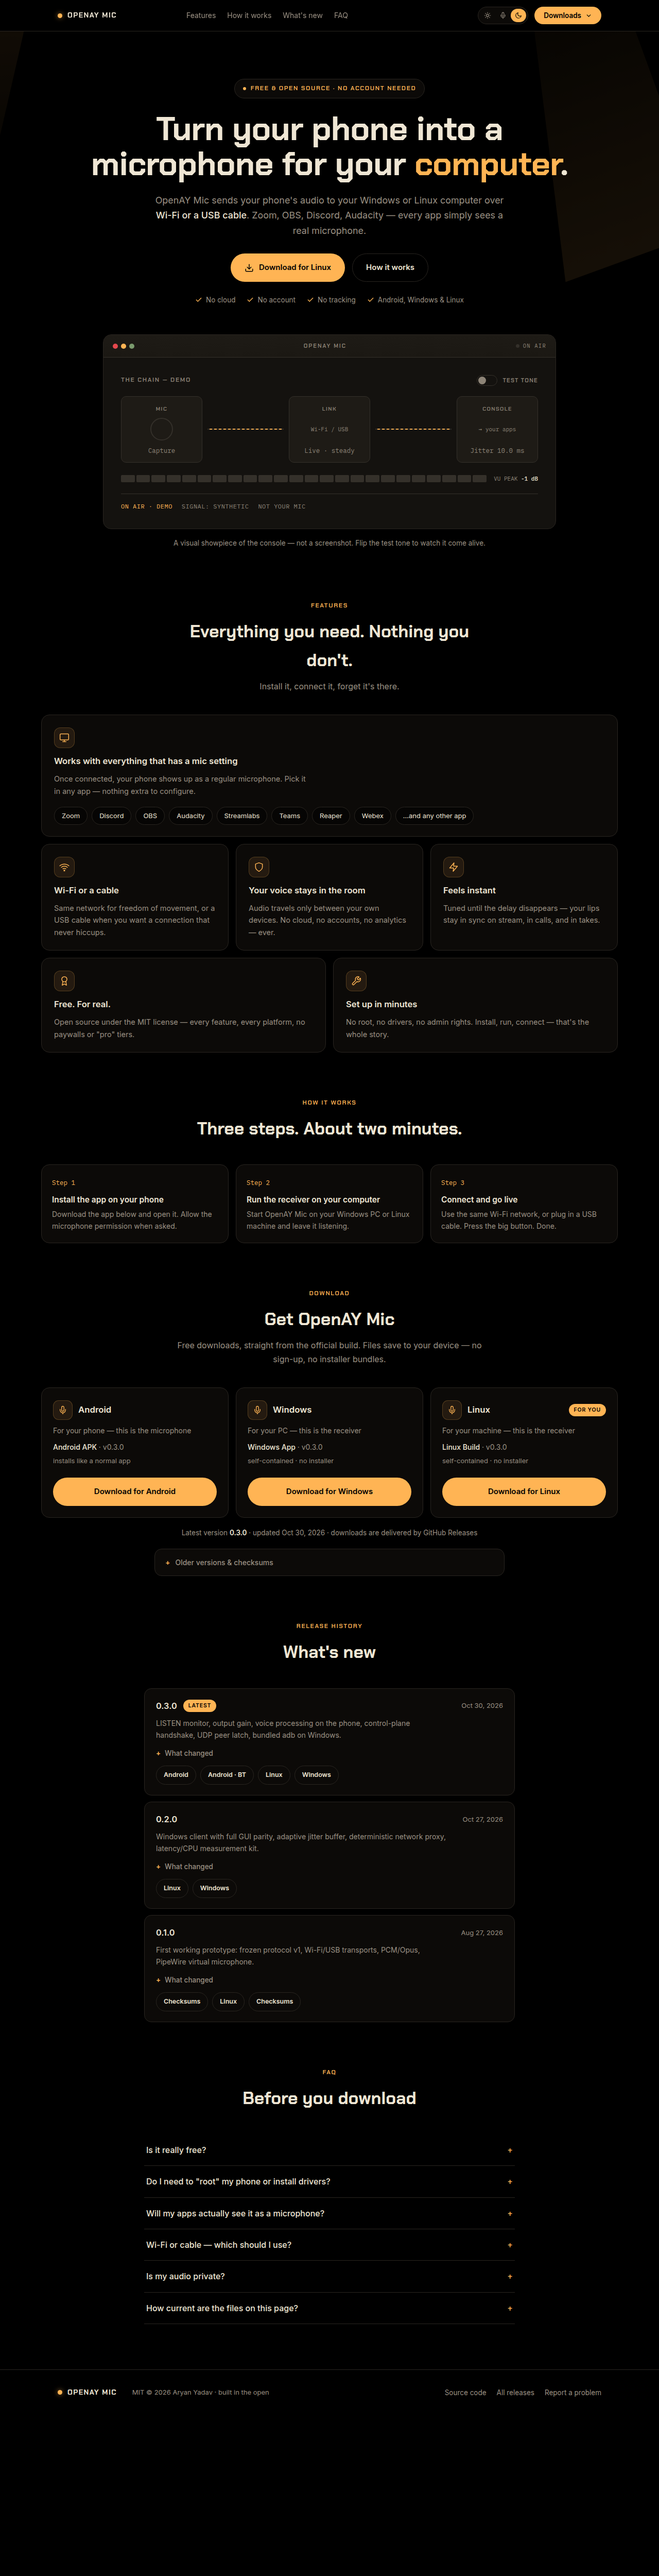
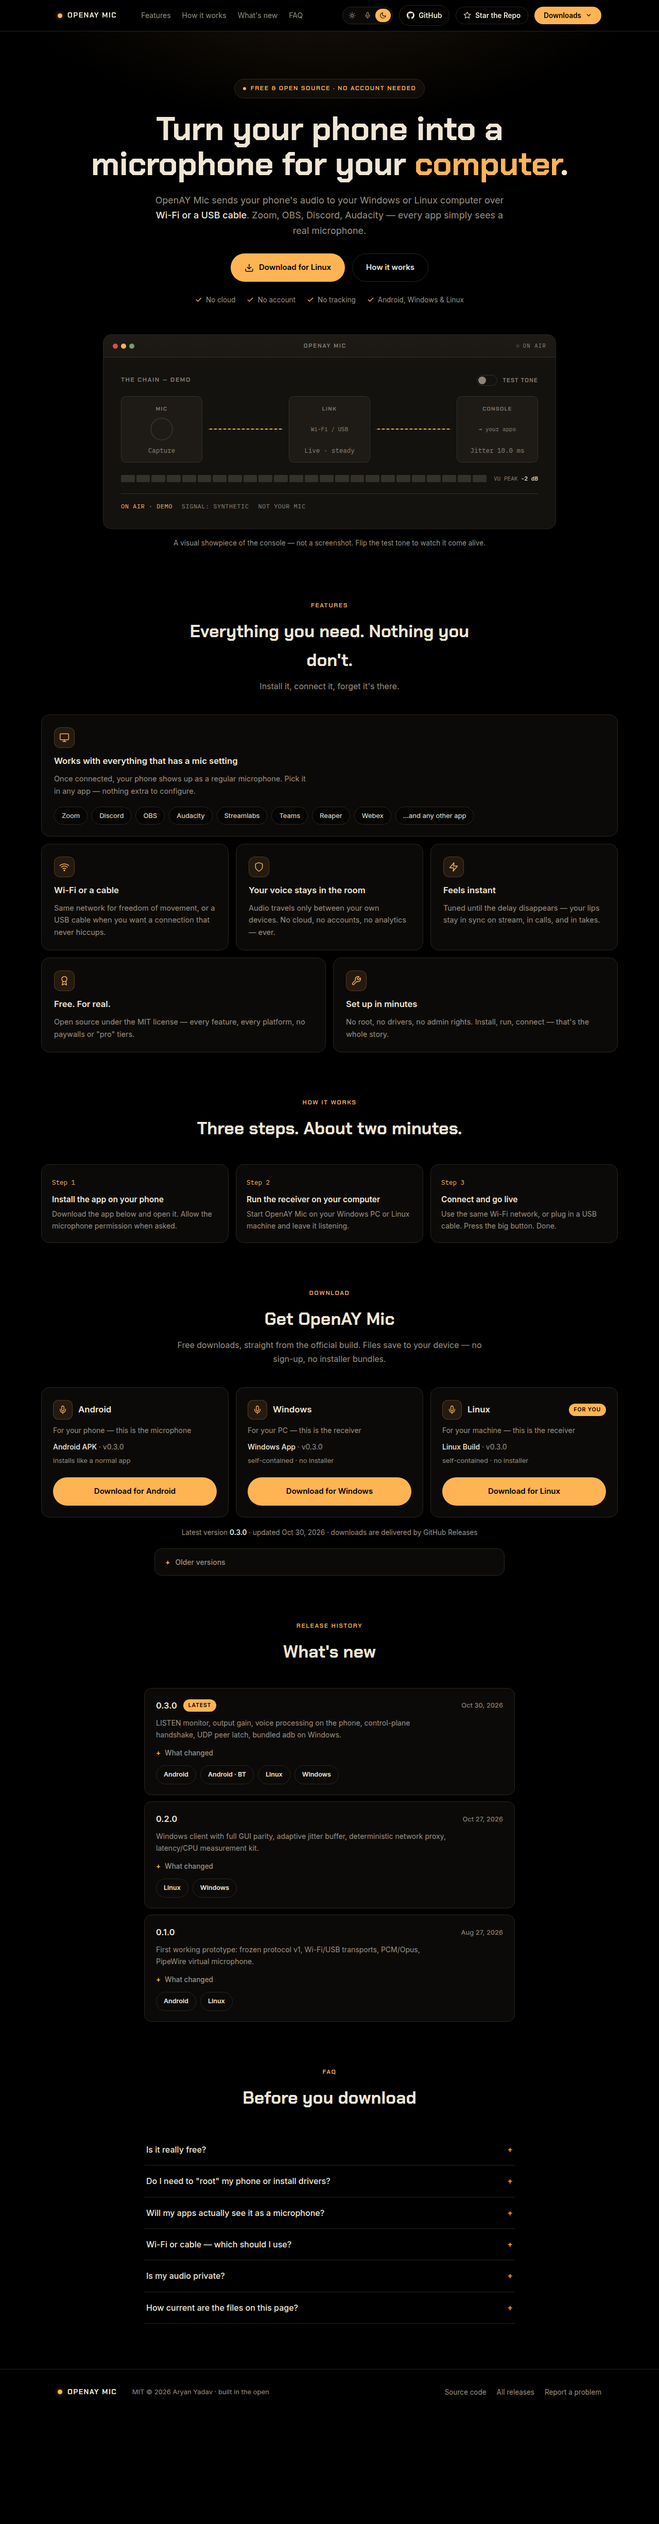
F polish: coherent background, GitHub/Star buttons, checksums removed
Angled spotlight beams replaced with one themed top glow. Topbar gains
GitHub link and 'Star the Repo' button (opens GitHub — starring requires
being logged in there; fill + persist after use). v0.1.0 double-Checksums
bug fixed (filename-based labeling fell back wrong for
openay-mic-v0.1.0-debug.apk) and checksum rows removed per discussion.

diff --git a/prototypes/f-fusion.html b/prototypes/f-fusion.html
@@ -27,7 +27,7 @@
     --amber: #FFB454; --accent: #FFB454; --on-amber: #14120F;
     --nav-bg: rgba(23, 21, 18, .82);
     --shadow-1: 0 1px 2px rgba(0,0,0,.35), 0 12px 34px rgba(0,0,0,.28);
-    --spot-o: .5; color-scheme: dark;
+    --glow-o: .10; color-scheme: dark;
   }
   [data-theme="light"] {
     --bg: #F6F1E7; --bg-2: #F0E9DB; --panel: #FCF9F2; --panel-2: #F7F1E5;
@@ -35,7 +35,7 @@
     --amber: #FFB454; --accent: #A9640D; --on-amber: #1D1912;
     --nav-bg: rgba(246, 241, 231, .86);
     --shadow-1: 0 1px 2px rgba(29,25,18,.05), 0 12px 32px rgba(29,25,18,.08);
-    --spot-o: .16; color-scheme: light;
+    --glow-o: .07; color-scheme: light;
   }
   [data-theme="amoled"] {
     --bg: #000000; --bg-2: #060504; --panel: #0C0A08; --panel-2: #120F0C;
@@ -43,7 +43,7 @@
     --amber: #FFB454; --accent: #FFB454; --on-amber: #000000;
     --nav-bg: rgba(0, 0, 0, .78);
     --shadow-1: 0 1px 2px rgba(0,0,0,.8), 0 12px 34px rgba(0,0,0,.65);
-    --spot-o: .42; color-scheme: dark;
+    --glow-o: .12; color-scheme: dark;
   }
 
   * { box-sizing: border-box; margin: 0; padding: 0; }
@@ -87,6 +87,17 @@
   .dd-btn:hover { box-shadow: 0 0 18px rgba(255,180,84,.4); }
   .dd-btn .chev { transition: rotate .18s; }
   .dd[open] .dd-btn .chev, .dd-btn[aria-expanded="true"] .chev { rotate: 180deg; }
+  .gh-btn, .star-btn {
+    display: inline-flex; align-items: center; gap: 8px; font-weight: 600; font-size: 13.5px;
+    color: var(--text); border: 1px solid var(--line); border-radius: 999px; padding: 8px 14px;
+    background: transparent; cursor: pointer; font-family: inherit;
+    transition: border-color .15s, background-color .15s, color .15s;
+  }
+  .gh-btn:hover, .star-btn:hover { border-color: var(--dim); background: var(--panel); }
+  .star-btn svg { flex: none; }
+  .star-btn.starred { border-color: rgba(255,180,84,.55); color: var(--accent); }
+  .star-btn.starred svg { fill: var(--amber); stroke: var(--amber); }
+  @media (max-width: 640px) { .gh-btn span, .star-btn span:not(.sr-only) { display: none; } .gh-btn, .star-btn { padding: 8px 10px; } }
   .dd-menu {
     position: absolute; right: 0; top: calc(100% + 10px); min-width: 250px; z-index: 70;
     background: var(--panel); border: 1px solid var(--line); border-radius: 14px;
@@ -112,10 +123,10 @@
 
   /* ============ hero ============ */
   .hero { position: relative; padding: 92px 0 20px; text-align: center; overflow: clip; }
-  .spotlight { position: absolute; inset: 0; pointer-events: none; }
-  .spotlight svg { position: absolute; top: -300px; opacity: var(--spot-o); }
-  .spotlight svg.s1 { left: -14%; }
-  .spotlight svg.s2 { left: 48%; transform: rotate(160deg); }
+  .hero::before {  /* one coherent top glow — no hard-edged beams */
+    content: ""; position: absolute; inset: 0; pointer-events: none;
+    background: radial-gradient(900px 440px at 50% -140px, rgba(255,180,84,var(--glow-o)), transparent 72%);
+  }
   h1 { font-family: "Chakra Petch", sans-serif; font-weight: 700; font-size: clamp(2.3rem, 5.5vw, 4rem); line-height: 1.07; letter-spacing: -.01em; position: relative; }
   h1 .hl { color: var(--amber); }
   .hero .sub { margin: 20px auto 0; max-width: 60ch; color: var(--dim); font-size: clamp(1rem, 1.4vw, 1.15rem); position: relative; }
@@ -327,8 +338,7 @@
       <a href="#faq">FAQ</a>
     </nav>
     <div class="top-tools">
-      <div class="themes" role="group" aria-label="Color theme">
-        <button type="button" data-set-theme="light" aria-pressed="false" title="Light theme" aria-label="Light theme">
+      <div class="themes" role="group" aria-label="Color theme">        <button type="button" data-set-theme="light" aria-pressed="false" title="Light theme" aria-label="Light theme">
           <svg width="14" height="14" viewBox="0 0 24 24" fill="none" stroke="currentColor" stroke-width="2" stroke-linecap="round" aria-hidden="true"><circle cx="12" cy="12" r="4"/><path d="M12 2v2M12 20v2M4.9 4.9l1.4 1.4M17.7 17.7l1.4 1.4M2 12h2M20 12h2M4.9 19.1l1.4-1.4M17.7 6.3l1.4-1.4"/></svg>
         </button>
         <button type="button" data-set-theme="iced" aria-pressed="true" title="Iced Amber (default)" aria-label="Iced Amber theme, default">
@@ -338,6 +348,14 @@
           <svg width="14" height="14" viewBox="0 0 24 24" fill="none" stroke="currentColor" stroke-width="2" stroke-linecap="round" stroke-linejoin="round" aria-hidden="true"><path d="M21 12.8A9 9 0 1 1 11.2 3 7 7 0 0 0 21 12.8z"/></svg>
         </button>
       </div>
+      <a class="gh-btn" href="https://github.com/yadav-aryan18/openay-mic" target="_blank" rel="noopener" aria-label="OpenAY Mic on GitHub">
+        <svg width="15" height="15" viewBox="0 0 24 24" fill="currentColor" aria-hidden="true"><path d="M12 .297c-6.63 0-12 5.373-12 12 0 5.303 3.438 9.8 8.205 11.385.6.113.82-.258.82-.577 0-.285-.01-1.04-.015-2.04-3.338.724-4.042-1.61-4.042-1.61C4.422 18.07 3.633 17.7 3.633 17.7c-1.087-.744.084-.729.084-.729 1.205.084 1.838 1.236 1.838 1.236 1.07 1.835 2.809 1.305 3.495.998.108-.776.417-1.305.76-1.605-2.665-.3-5.466-1.332-5.466-5.93 0-1.31.465-2.38 1.235-3.22-.135-.303-.54-1.523.105-3.176 0 0 1.005-.322 3.3 1.23.96-.267 1.98-.399 3-.405 1.02.006 2.04.138 3 .405 2.28-1.552 3.285-1.23 3.285-1.23.645 1.653.24 2.873.12 3.176.765.84 1.23 1.91 1.23 3.22 0 4.61-2.805 5.625-5.475 5.92.42.36.81 1.096.81 2.22 0 1.606-.015 2.896-.015 3.286 0 .315.21.69.825.57C20.565 22.092 24 17.592 24 12.297c0-6.627-5.373-12-12-12"/></svg>
+        <span>GitHub</span>
+      </a>
+      <button type="button" class="star-btn" id="starBtn" title="Star the Repo — opens GitHub in a new tab (starring happens there; no website can star for you)">
+        <svg width="15" height="15" viewBox="0 0 24 24" fill="none" stroke="currentColor" stroke-width="1.8" stroke-linecap="round" stroke-linejoin="round" aria-hidden="true"><polygon points="12 2 15.09 8.26 22 9.27 17 14.14 18.18 21.02 12 17.77 5.82 21.02 7 14.14 2 9.27 8.91 8.26 12 2"/></svg>
+        <span>Star the Repo</span>
+      </button>
       <div class="dd" id="dd">
         <button type="button" class="dd-btn" id="ddBtn" aria-haspopup="menu" aria-expanded="false" aria-controls="ddMenu">
           Downloads
@@ -351,20 +369,6 @@
 
 <main id="top">
   <section class="hero">
-    <div class="spotlight" aria-hidden="true">
-      <svg class="s1" width="640" height="820" viewBox="0 0 640 820" fill="none">
-        <defs><linearGradient id="beam1" x1="0" y1="0" x2="0" y2="1">
-          <stop offset="0" stop-color="#FFB454" stop-opacity=".34"/><stop offset="1" stop-color="#FFB454" stop-opacity="0"/>
-        </linearGradient></defs>
-        <path d="M-60 380 L60 -200 L340 -200 L120 760 Z" fill="url(#beam1)"/>
-      </svg>
-      <svg class="s2" width="640" height="820" viewBox="0 0 640 820" fill="none">
-        <defs><linearGradient id="beam2" x1="0" y1="0" x2="0" y2="1">
-          <stop offset="0" stop-color="#FFB454" stop-opacity=".26"/><stop offset="1" stop-color="#FFB454" stop-opacity="0"/>
-        </linearGradient></defs>
-        <path d="M-60 380 L60 -200 L340 -200 L120 760 Z" fill="url(#beam2)"/>
-      </svg>
-    </div>
     <div class="wrap">
       <span class="eyebrow" style="display:inline-flex;align-items:center;gap:9px;border:1px solid var(--line);background:var(--panel);border-radius:999px;padding:8px 16px">
         <i aria-hidden="true" style="width:6px;height:6px;border-radius:50%;background:var(--amber)"></i>Free &amp; open source · no account needed
@@ -504,7 +508,7 @@
     <div class="dl-grid" id="dlCards"></div>
     <p class="dl-note">Latest version <b id="dlVer">—</b> · updated <span id="dlDate">—</span> · downloads are delivered by GitHub Releases</p>
     <details class="more-dl">
-      <summary>Older versions &amp; checksums</summary>
+      <summary>Older versions</summary>
       <div class="more-body" id="moreDl"></div>
     </details>
   </section>
@@ -652,16 +656,21 @@
   var extras = [];
   var bt = asset(latest, "android-bt");
   if (bt) extras.push({ a: bt, label: "Android APK · Bluetooth build", sub: "experimental · v" + ver });
-  var sum = asset(latest, "checksums");
-  if (sum) extras.push({ a: sum, label: "Checksums", sub: "verify your download · v" + ver });
+  var noChecksums = function (a) { return !/SHA256SUMS/i.test(a.name); };
+  function chipLabel(a) {
+    if (/bluetooth/i.test(a.name)) return "Android · BT";
+    if (/android/i.test(a.name)) return "Android";
+    if (/windows/i.test(a.name)) return "Windows";
+    if (/linux/i.test(a.name)) return "Linux";
+    return a.label || "Download";
+  }
   $("moreDl").innerHTML =
     extras.map(function (e) {
       return '<a href="' + esc(e.a.url) + '" download rel="noopener">' + esc(e.label) + "<span>" + esc(e.sub) + "</span></a>";
     }).join("") +
     data.releases.filter(function (r) { return r !== latest; }).map(function (r) {
-      return r.assets.map(function (a) {
-        var lbl = /android/i.test(a.name) ? "Android APK" : /windows/i.test(a.name) ? "Windows" : /linux/i.test(a.name) ? "Linux" : "Checksums";
-        return '<a href="' + esc(a.url) + '" download rel="noopener">' + lbl + "<span>" + esc(r.tag.replace(/^v/, "v")) + "</span></a>";
+      return r.assets.filter(noChecksums).map(function (a) {
+        return '<a href="' + esc(a.url) + '" download rel="noopener">' + esc(chipLabel(a)) + "<span>" + esc(r.tag.replace(/^v/, "v")) + "</span></a>";
       }).join("");
     }).join("");
 
@@ -676,9 +685,8 @@
       (r.notes || []).map(function (g) {
         return "<div><h4>" + esc(g.h) + "</h4><ul>" + g.items.map(function (it) { return "<li>" + esc(it) + "</li>"; }).join("") + "</ul></div>";
       }).join("") + "</div></details>" +
-      '<div style="display:flex;flex-wrap:wrap;gap:8px;margin-top:12px">' + r.assets.map(function (a) {
-        var lbl = /android.*bluetooth/i.test(a.name) ? "Android · BT" : /android/i.test(a.name) ? "Android" : /windows/i.test(a.name) ? "Windows" : /linux/i.test(a.name) ? "Linux" : "Checksums";
-        return '<a class="btn btn-ghost" style="padding:7px 14px;font-size:12.5px" href="' + esc(a.url) + '" download rel="noopener">' + esc(lbl) + "</a>";
+      '<div style="display:flex;flex-wrap:wrap;gap:8px;margin-top:12px">' + r.assets.filter(noChecksums).map(function (a) {
+        return '<a class="btn btn-ghost" style="padding:7px 14px;font-size:12.5px" href="' + esc(a.url) + '" download rel="noopener">' + esc(chipLabel(a)) + "</a>";
       }).join("") + "</div>" +
       "</article>";
   }).join("");
@@ -728,6 +736,15 @@
   if (new URLSearchParams(location.search).has("demo")) {
     setTimeout(function () { if (!tone.checked) { tone.checked = true; tone.dispatchEvent(new Event("change")); } }, reduced ? 150 : 1000);
   }
+
+  /* ---- star button: opens GitHub (starring happens there — see tooltip) ---- */
+  var starBtn = $("starBtn"), repoUrl = data.repoUrl;
+  try { if (localStorage.getItem("oay-starred") === "1") starBtn.classList.add("starred"); } catch (e) {}
+  starBtn.addEventListener("click", function () {
+    window.open(repoUrl, "_blank", "noopener");
+    starBtn.classList.add("starred");
+    try { localStorage.setItem("oay-starred", "1"); } catch (e) {}
+  });
 
   /* ---- theme switcher ---- */
   var metaTheme = $("metaTheme");

diff --git a/README.md b/README.md
@@ -45,7 +45,17 @@ to GitHub's release pages.
     would go stale. When production bakes releases.json at deploy time they
     become accurate and can return.
   - The demo is labeled a **visual showpiece, not a screenshot**.
-  - Chain demo powers on when scrolled into view; stages stack on phones.
+  - **GitHub + Star buttons** in the topbar (footer keeps Source code too).
+    The star button opens the repo in a new tab — starring can only happen
+    on GitHub while logged in, so no site can star for you; the button says
+    so in its tooltip, fills the star after use, and remembers it.
+  - **No checksum rows** — the v0.1.0 asset names broke filename-based
+    labeling (two "Checksums" chips), and checksums only existed for v0.1.0;
+    anyone hashing can use the GitHub release page.
+  - Background: the angled spotlight beams are gone — one soft themed glow
+    at the top, coherent across themes.
+  - Chain demo powers on when scrolled into view; stages stack on phones
+    (probe-verified overflow fix).
 
 Open directly in a browser (no build step) or:
 
